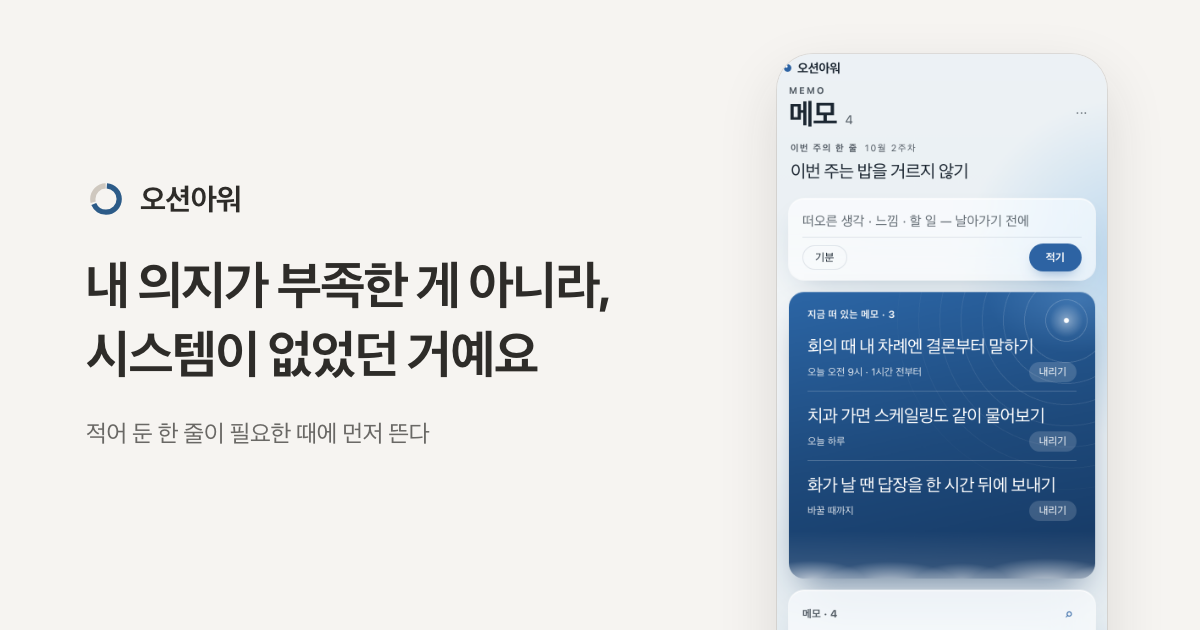
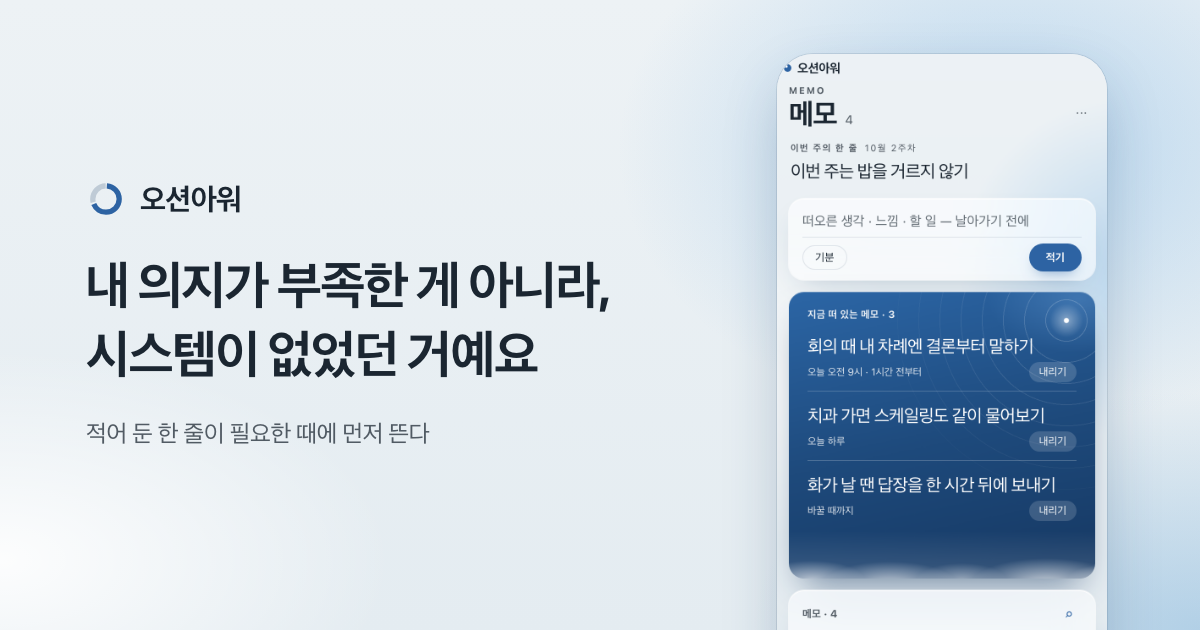
파는 페이지 · 처리방침 · 링크 미리보기 바탕을 앱의 안개 하늘빛으로(대표님 10-04)
글 · 배치 · 사진 그대로, 바탕 · 면 · 단추 색만. 대비 최저 4.78.

diff --git a/index.html b/index.html
@@ -17,21 +17,31 @@
 <meta property="og:image:alt" content="오션아워 — 내 의지가 부족한 게 아니라, 시스템이 없었던 거예요. 적어 둔 한 줄이 필요한 때에 먼저 뜬다. 오른쪽은 실제 폰 화면">
 <meta name="twitter:card" content="summary_large_image">
 <link rel="preload" as="image" href="start-phone.webp" type="image/webp" media="(max-width:640px)">
-<meta name="theme-color" content="#F6F4F1">
+<meta name="theme-color" content="#EDF2F5">
 <meta name="color-scheme" content="light">
 <link rel="icon" href="app/icons/icon-192.png">
 <link rel="apple-touch-icon" href="app/icons/apple-180.png">
 <style>
-/* 파는 페이지 — 디자인-기준.md: 아주 연한 바탕 · 색은 칩과 면으로만 · 글자는 검정 하나 · 굵기 둘(400 · 700). 밝은 판 하나 */
+/* 파는 페이지 — 디자인-기준.md(10-04 첫 화면 테마): 안개 하늘빛 바탕 · 비치는 흰 카드 · 파랑은 한 점(누르는 단추) · 글자는 하나 · 굵기 둘(400 · 700). 밝은 판 하나.
+   색 값은 앱(오션아워.html 「첫 화면 테마」 밝은 판)과 같다 */
 :root{
-  --bg:#F6F4F1; --card:#FFF; --line:rgba(40,38,35,.09);
-  --ink:#2E2C29; --d70:rgba(46,44,41,.7);
-  --blue:#2C5B88; --blue-bg:#E6EFF7; --gray:#6B6762; --gray-bg:#EFEDEB;
-  --pink:#A8415A; --pink-bg:#FBE9EC; --r:10px;
+  --bg:#E9EFF3; --card:rgba(255,255,255,.66); --line:rgba(28,58,88,.12);
+  --ink:#1B2631; --d70:rgba(27,38,49,.74);
+  --blue:#2D63A3; --blue-bg:#DCE8F4; --gray:#4F5C68; --gray-bg:#DAE3EB;
+  --pink:#A8415A; --pink-bg:#FBE9EC; --r:16px;
+  --glass-edge:rgba(255,255,255,.7); --glass-shadow:0 14px 34px -16px rgba(28,64,104,.26);
 }
 *{box-sizing:border-box}
 html,body{margin:0}
-body{background:var(--bg);color:var(--ink);
+/* 바탕 — 위 오른쪽에 하늘빛, 왼쪽에 흰 안개, 맨 아래 오른쪽에 바다빛이 번진다. 쪽 맨 위(머리글 자리)는 평평한 안개빛.
+   길이가 px라서 쪽이 길어도 번짐이 늘어나지 않고, fixed가 아니라 폰(아이폰 사파리)에서도 그대로다 */
+html{background-color:#E4ECF1;background-repeat:no-repeat;
+  background-image:
+    radial-gradient(820px 460px at 100% 380px,rgba(150,196,234,.55),transparent 70%),
+    radial-gradient(760px 420px at 0% 760px,rgba(255,255,255,.9),transparent 70%),
+    radial-gradient(900px 480px at 100% 100%,rgba(128,180,220,.42),transparent 70%),
+    linear-gradient(180deg,#EDF2F5 0,#E4ECF1 900px)}
+body{background:transparent;color:var(--ink);
   font-family:-apple-system,BlinkMacSystemFont,"Pretendard","Apple SD Gothic Neo","Segoe UI",sans-serif;
   font-size:16px;line-height:1.6;letter-spacing:-.01em;-webkit-font-smoothing:antialiased;
   word-break:keep-all;overflow-wrap:anywhere}
@@ -45,32 +55,36 @@ h2{font-size:26px;line-height:1.35;letter-spacing:-.02em;font-weight:700;margin:
 h3{font-size:16px;font-weight:700;margin:0 0 4px}
 p{margin:0 0 12px}
 .sub{font-size:19px;color:var(--d70);margin:0 0 28px}
-.go{display:inline-block;background:var(--ink);color:#FFF;text-decoration:none;font-weight:700;
-  padding:12px 20px;border-radius:var(--r);font-size:15px}
-.go:hover{background:#000}
-.go.sm{padding:7px 13px;font-size:13.5px}
+/* 누르는 것 — 파랑 알약(앱의 「적기」 단추와 같다). 파랑은 이 단추와 아래 칩에만 쓴다 */
+.go{display:inline-block;background:var(--blue);color:#FFF;text-decoration:none;font-weight:700;
+  padding:12px 22px;border-radius:999px;font-size:15px;box-shadow:0 8px 16px -8px rgba(45,99,163,.6)}
+.go:hover{background:#24558E}
+.go.sm{padding:7px 16px;font-size:13.5px}
 .cards{display:grid;grid-template-columns:repeat(2,minmax(0,300px));gap:12px;margin:0 0 10px}
-.pcard{margin:0;background:var(--card);border-radius:14px;padding:16px 14px 12px;box-shadow:0 1px 2px rgba(40,38,35,.04)}
+/* 비치는 카드 — 앱의 카드와 같은 결: 흰빛 .66 + 흐림 + 흰 윗선 + 가는 흰 테두리 + 푸른 그림자 */
+.pcard,.feats div,.card{background:var(--card);-webkit-backdrop-filter:blur(18px) saturate(1.3);backdrop-filter:blur(18px) saturate(1.3);
+  box-shadow:inset 0 1px 0 rgba(255,255,255,.95),0 0 0 1px var(--glass-edge),var(--glass-shadow)}
+.pcard{margin:0;border-radius:20px;padding:16px 14px 12px}
 .pcard h3{font-size:17px;margin:0 0 10px;letter-spacing:-.02em}
-.pcard img{display:block;width:100%;height:auto;border-radius:10px;border:1px solid var(--line)}
+.pcard img{display:block;width:100%;height:auto;border-radius:12px;border:1px solid var(--line)}
 .pcard figcaption{font-size:12.5px;color:var(--d70);padding:8px 2px 0;line-height:1.5}
 .feats{display:grid;grid-template-columns:1fr 1fr 1fr;gap:12px}
-.feats div{background:var(--card);border-radius:var(--r);padding:14px 16px}
+.feats div{border-radius:var(--r);padding:14px 16px}
 .feats h3{font-size:14px;margin:0 0 6px}
 .feats p{font-size:13.5px;color:var(--d70);margin:0;line-height:1.6}
 .feats.m{grid-template-columns:1fr 1fr}
-.inapp{background:#FAF0DC;color:#8E6524;font-size:13.5px;line-height:1.6;padding:10px 16px}
-.inapp button{font:inherit;font-size:12.5px;color:#8E6524;border:1px solid rgba(142,101,36,.35);border-radius:6px;padding:1px 8px;background:transparent;cursor:pointer}
+.inapp{background:#F6EEDC;color:#7E5A1E;font-size:13.5px;line-height:1.6;padding:10px 16px}
+.inapp button{font:inherit;font-size:12.5px;color:#7E5A1E;border:1px solid rgba(126,90,30,.4);border-radius:6px;padding:1px 8px;background:transparent;cursor:pointer}
 .cta{display:flex;align-items:center;gap:14px;flex-wrap:wrap}
 .note{font-size:13.5px;color:var(--d70)}
 .hero{padding:56px 0 36px}
 section{padding:44px 0;border-top:1px solid var(--line)}
 figure{margin:0}
-.shot img{display:block;width:100%;height:auto;border-radius:var(--r);border:1px solid var(--line);
-  box-shadow:0 1px 2px rgba(40,38,35,.04),0 12px 32px rgba(40,38,35,.06);background:var(--card)}
+.shot img{display:block;width:100%;height:auto;border-radius:20px;border:1px solid var(--line);
+  box-shadow:0 1px 2px rgba(28,64,104,.05),0 18px 44px -16px rgba(28,64,104,.3);background:#EDF2F5}
 .shot figcaption{font-size:13px;color:var(--d70);padding:10px 2px 0}
 .hero + .shot{margin-bottom:44px}
-.card{background:var(--card);border-radius:var(--r);padding:18px 18px 16px;box-shadow:0 1px 2px rgba(40,38,35,.04)}
+.card{border-radius:18px;padding:18px 18px 16px}
 .card p:last-child{margin:0}
 .chip{display:inline-block;font-size:12px;font-weight:700;padding:3px 10px;border-radius:999px;margin:0 0 10px}
 .chip.blue{background:var(--blue-bg);color:var(--blue)}
@@ -87,6 +101,11 @@ footer{border-top:1px solid var(--line);padding:24px 0 40px;font-size:13px;color
 footer a{color:var(--d70)}
 .fnote{font-size:12px}
 @media (max-width:640px){
+  html{background-image:
+    radial-gradient(480px 320px at 100% 330px,rgba(150,196,234,.55),transparent 70%),
+    radial-gradient(440px 300px at 0% 640px,rgba(255,255,255,.9),transparent 70%),
+    radial-gradient(520px 340px at 100% 100%,rgba(128,180,220,.42),transparent 70%),
+    linear-gradient(180deg,#EDF2F5 0,#E4ECF1 700px)}
   h1{font-size:31px}
   h2{font-size:22px}
   .sub{font-size:17px}

diff --git a/privacy.html b/privacy.html
@@ -18,16 +18,29 @@
 <meta name="twitter:card" content="summary_large_image">
 <link rel="icon" href="app/icons/icon-192.png">
 <style>
-:root{--bg:#F6F4F1;--card:#FFF;--ink:#2E2C29;--d70:rgba(46,44,41,.7);--line:rgba(40,38,35,.09);--c4:#2C5B88;color-scheme:light}
+/* 바탕 · 면 · 색은 파는 페이지(index.html)와 같다 — 안개 하늘빛 + 비치는 흰 카드 + 파랑 한 점(링크) */
+:root{--bg:#E9EFF3;--card:rgba(255,255,255,.66);--ink:#1B2631;--d70:rgba(27,38,49,.74);--line:rgba(28,58,88,.12);--c4:#2D63A3;color-scheme:light}
 *{box-sizing:border-box}
-body{margin:0;background:var(--bg);color:var(--ink);font-family:-apple-system,BlinkMacSystemFont,"Apple SD Gothic Neo","Pretendard","Noto Sans KR",sans-serif;line-height:1.7;word-break:keep-all}
+html{background-color:#E4ECF1;background-repeat:no-repeat;
+  background-image:
+    radial-gradient(760px 420px at 100% 220px,rgba(150,196,234,.55),transparent 70%),
+    radial-gradient(700px 400px at 0% 560px,rgba(255,255,255,.9),transparent 70%),
+    radial-gradient(860px 440px at 100% 100%,rgba(128,180,220,.42),transparent 70%),
+    linear-gradient(180deg,#EDF2F5 0,#E4ECF1 800px)}
+@media(max-width:640px){html{background-image:
+    radial-gradient(440px 300px at 100% 200px,rgba(150,196,234,.55),transparent 70%),
+    radial-gradient(420px 280px at 0% 520px,rgba(255,255,255,.9),transparent 70%),
+    radial-gradient(500px 320px at 100% 100%,rgba(128,180,220,.42),transparent 70%),
+    linear-gradient(180deg,#EDF2F5 0,#E4ECF1 700px)}}
+body{margin:0;background:transparent;color:var(--ink);font-family:-apple-system,BlinkMacSystemFont,"Apple SD Gothic Neo","Pretendard","Noto Sans KR",sans-serif;line-height:1.7;word-break:keep-all}
 main{max-width:720px;margin:0 auto;padding:32px 20px 64px}
 a{color:var(--c4)}
 .top{display:flex;align-items:center;min-height:44px;margin-bottom:12px}
 .top a{text-decoration:none;font-weight:700;color:var(--ink);display:inline-flex;align-items:center;min-height:44px}
 h1{font-size:26px;letter-spacing:-.02em;margin:8px 0 4px}
 .day{color:var(--d70);font-size:14px;margin:0 0 24px}
-section{background:var(--card);border-radius:12px;padding:18px 20px;margin:0 0 12px;box-shadow:0 1px 2px rgba(40,38,35,.04)}
+section{background:var(--card);-webkit-backdrop-filter:blur(18px) saturate(1.3);backdrop-filter:blur(18px) saturate(1.3);border-radius:18px;padding:18px 20px;margin:0 0 12px;
+  box-shadow:inset 0 1px 0 rgba(255,255,255,.95),0 0 0 1px rgba(255,255,255,.7),0 14px 34px -16px rgba(28,64,104,.26)}
 h2{font-size:16px;margin:0 0 6px}
 p,li{font-size:15px;margin:0}
 ul{margin:0;padding-left:20px}
